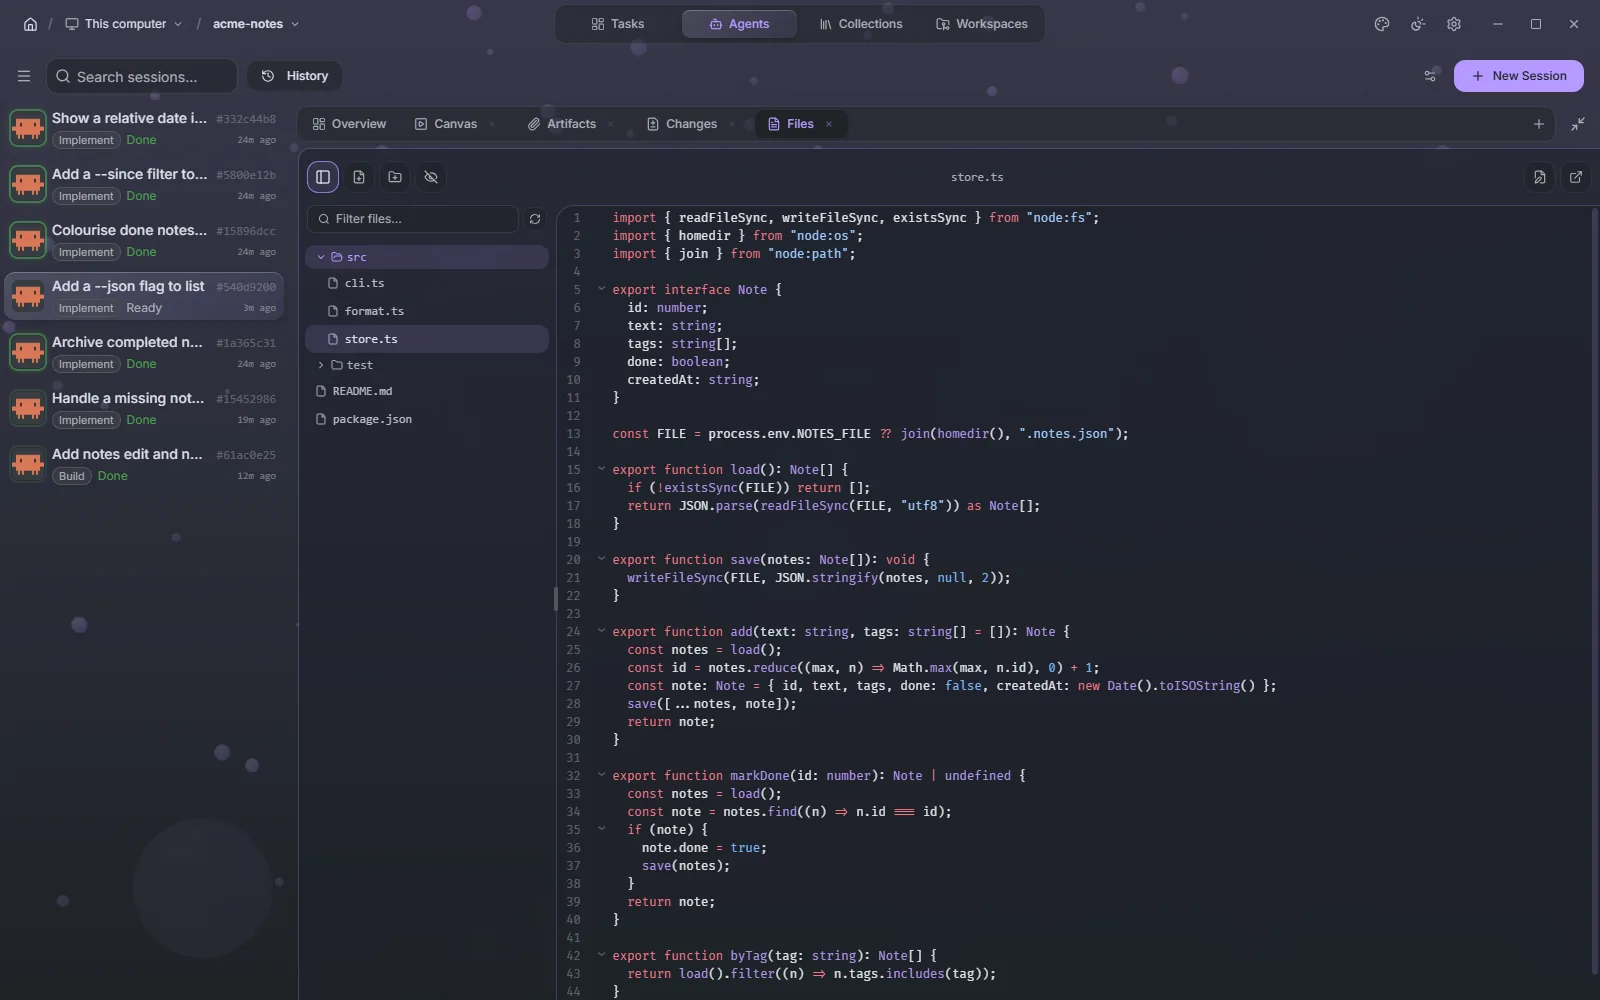
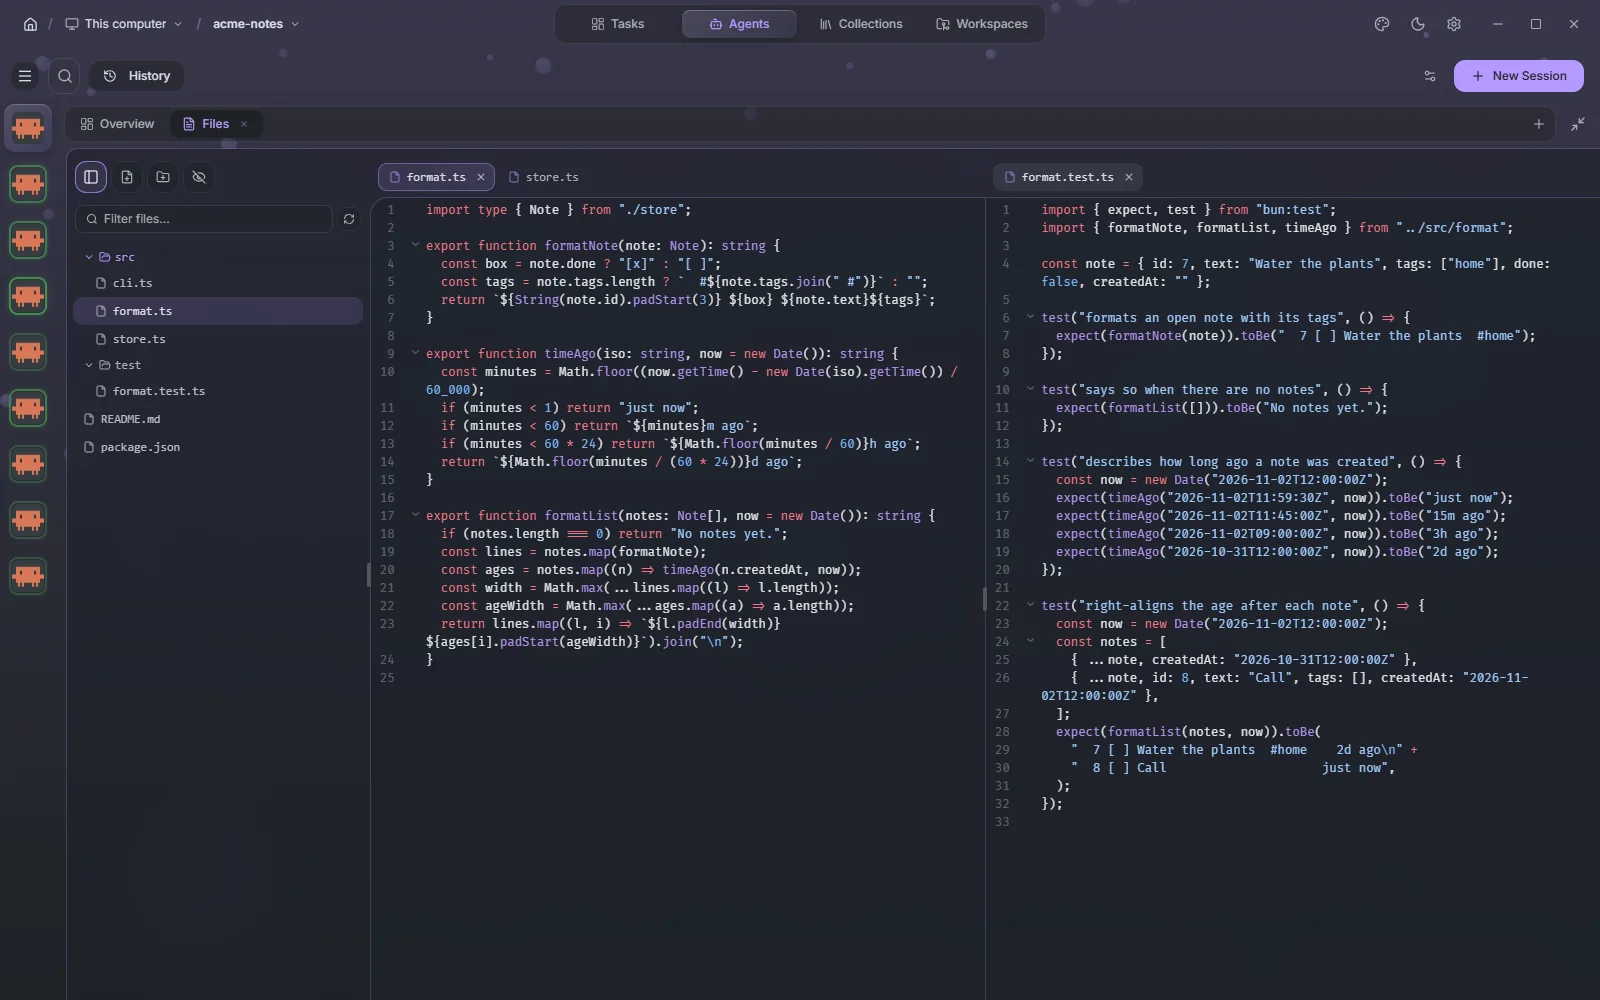
docs: document file tabs, the split and line links in the Files panel (#611)
Describe tabs, the two-sided split and #L line links in the guide's Files
section, list the Files shortcuts (Ctrl+E, Esc, Ctrl+W, Ctrl+O), and
recapture side-panel-files.webp with two files side by side.

diff --git a/website/guide/agents.md b/website/guide/agents.md
@@ -77,7 +77,9 @@ Every change the session made, as a diff, unified or split, with a file list you
 
 The workspace as a tree, with an editor. Open any file, edit it, create or rename files and folders, show hidden files, and open a file in its default application. Images, PDFs, audio and video show in place, and Markdown can be edited side by side with its preview. Click the file name in the header to copy its full path. On a remote connection, **Download and open** and **Download to…** fetch a copy to this computer. If the agent writes to a file while you are editing it, Maestro asks before overwriting either version.
 
-<img src="../../docs/assets/side-panel-files.webp" alt="The Files tab maximized over the session, with the file tree and store.ts open in the editor" width="960" />
+Each file opens in its own tab. Drag a tab to the side, or choose **Move to the side** from its menu, to show two files next to each other, and drag the line between them to resize. Drag tabs to reorder them or to move them between sides; a side with no tabs left closes. A file link in an agent's reply opens its file here, and a link to a line, such as `store.ts#L42` or `#L42-L50`, scrolls to that line and briefly highlights it.
+
+<img src="../../docs/assets/side-panel-files.webp" alt="The Files tab maximized over the session, split in two: format.ts and store.ts open as tabs on the left, format.test.ts on the right" width="960" />
 
 ### Terminal
 

diff --git a/website/guide/shortcuts.md b/website/guide/shortcuts.md
@@ -18,6 +18,10 @@ Hold **Ctrl** for about a second to see the shortcuts drawn over the buttons the
 | Agents                    | Ctrl+H          | Session history                        |
 | Agents                    | Shift+Tab       | Next agent mode                        |
 | Agents                    | Esc             | Cancel the agent's turn                |
-| Files editor              | Ctrl+S          | Save the file                          |
+| Files                     | Ctrl+E          | Edit the file                          |
+| Files                     | Esc             | Stop editing                           |
+| Files                     | Ctrl+S          | Save the file                          |
+| Files                     | Ctrl+W          | Close the file's tab                   |
+| Files                     | Ctrl+O          | Open in the default application        |
 | Workspaces                | Ctrl+N          | New worktree                           |
 | Workspaces                | Ctrl+R          | Refresh                                |
